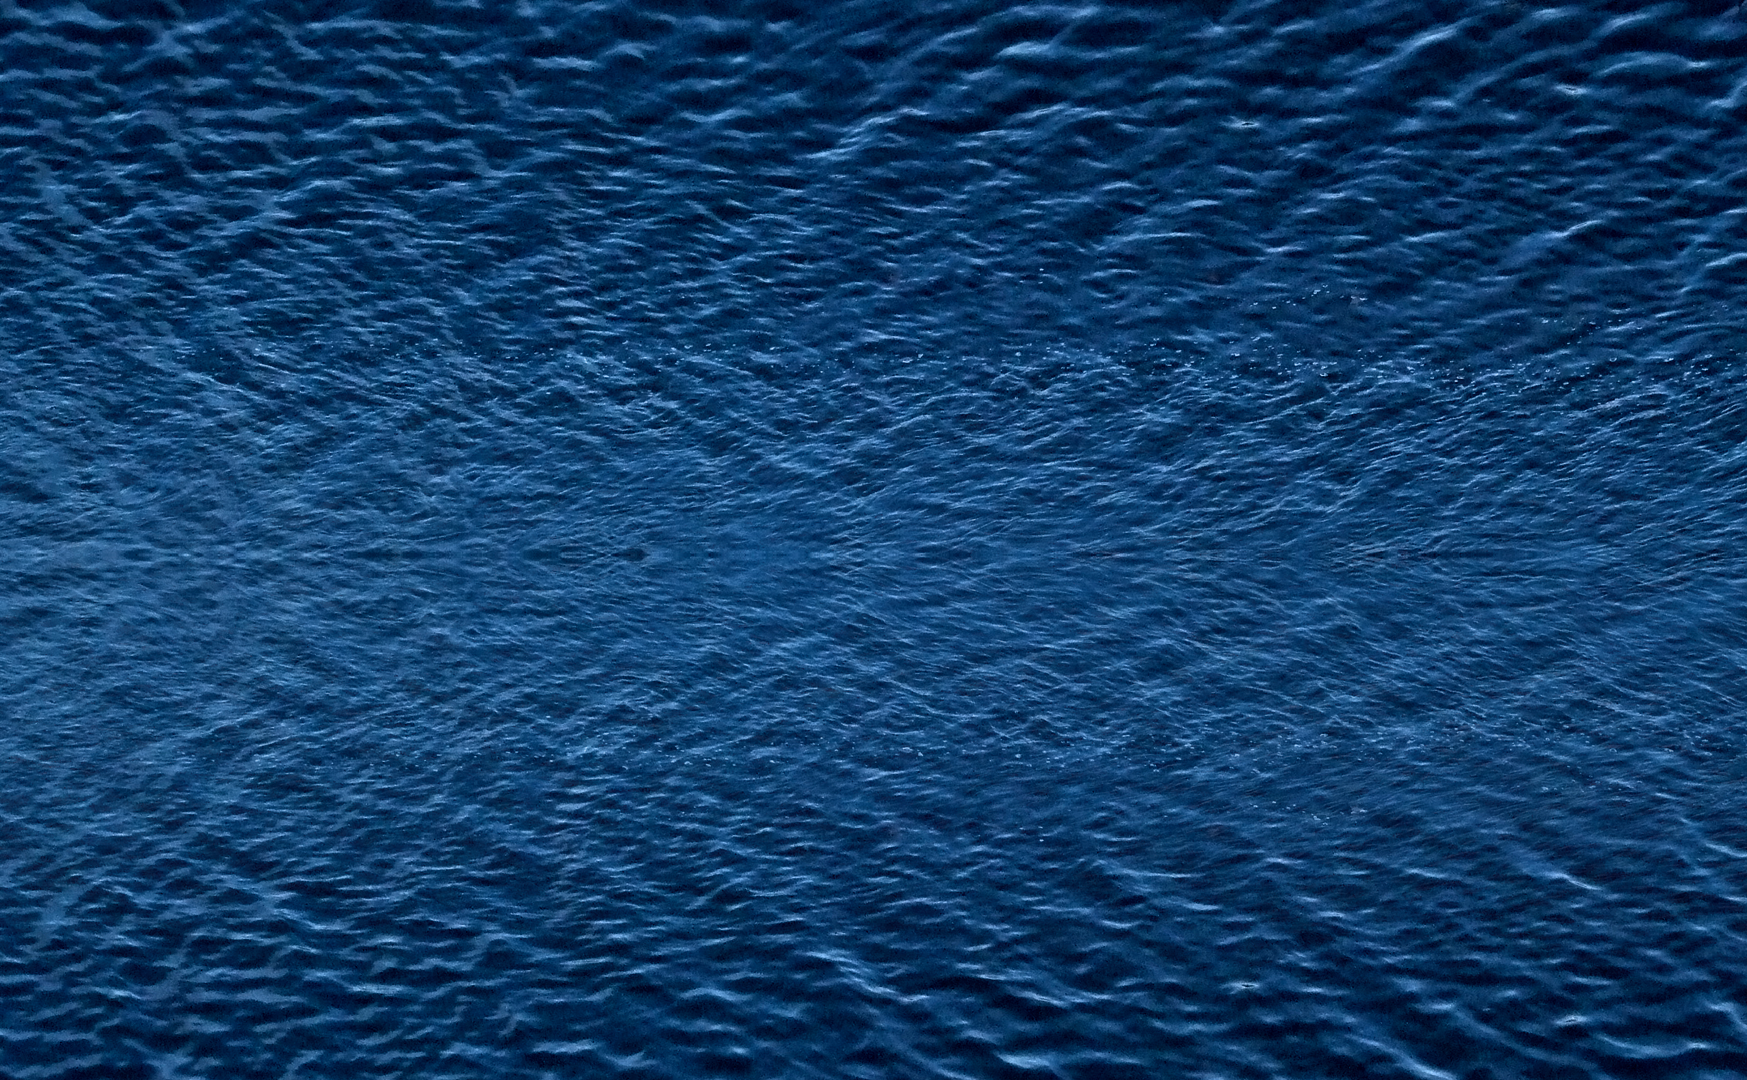
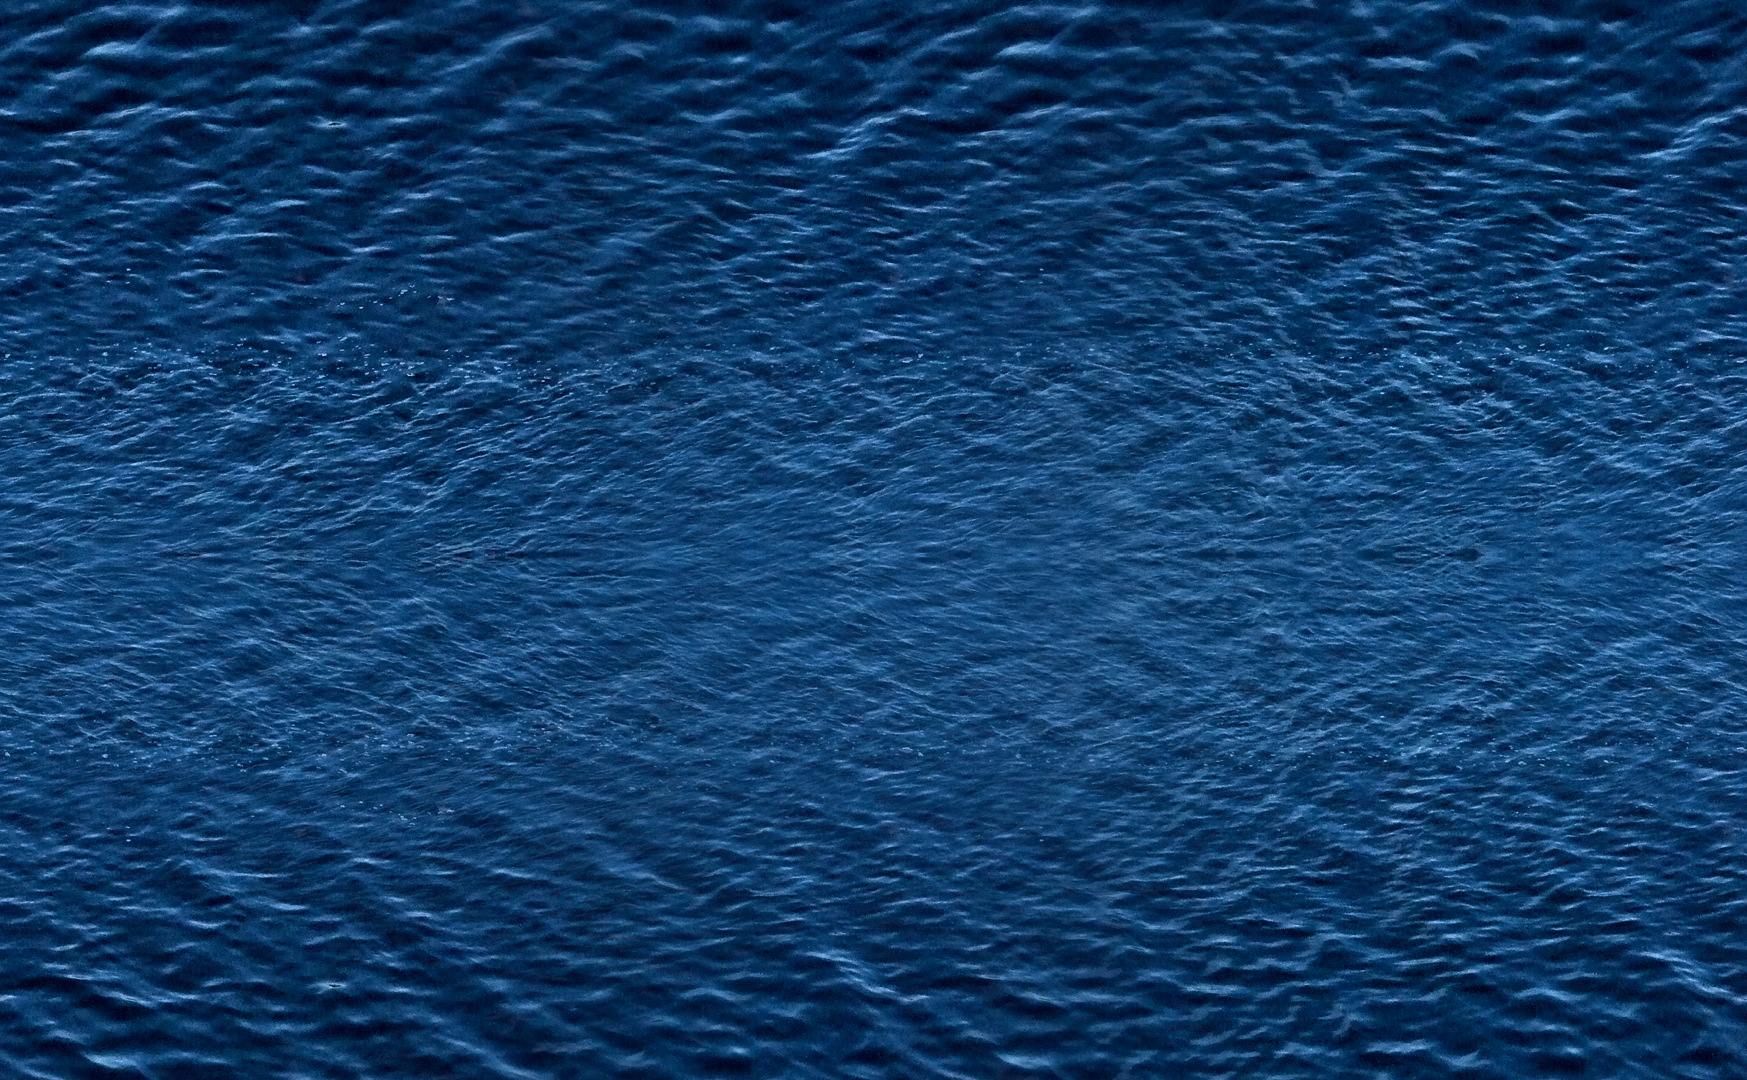
Updated Ice River level
Added multiple water layers to simulate river flow and added iceberg
effect.

diff --git a/public/scripts/game/levels/ice-river-background.js b/public/scripts/game/levels/ice-river-background.js
@@ -1,9 +1,84 @@
 function IceRiverBackgroundLayer( scene ) {
 	Layer.call( this, scene );
+
+	/*
+	this.background = new Sprite( 'Background-Ice-River' );
+	this.background.size.x = viewport.width;
+	this.background.size.y = viewport.height;
+	this.background.position.x = viewport.width / 2;
+	this.background.position.y = viewport.height / 2;
+	this.addComponent( 'Background', this.background );
+	*/
 	
-	var background = new Background( 'Background-Ice-River' );
-	this.addComponent( 'Background', background );
+	var waterOverlayCount = 3;
+	this.waterOverlays = [ ];
+	for( var i = 0; i < waterOverlayCount; i++ )
+	{
+		var waterOverlay = new Background( 'Background-Ice-River' );
+		waterOverlay.velocity.x = viewport.width * 0.11 * ( i + 1 );
+		waterOverlay.opacity = 1 / waterOverlayCount;
+		waterOverlay.scale = i + 1;
+		waterOverlay.position.y = viewport.height * 0.5;
+		waterOverlay.draw = function( context ) {
+			context.save( );
+			context.globalCompositeOperation = 'screen';
+			context.globalAlpha = this.opacity * i / waterOverlayCount;
+			context.drawImage( this.image, this.position.x, this.position.y - this.size.y * this.scale / 2, this.size.x * this.scale, this.size.y * this.scale );
+			context.drawImage( this.image, this.position.x - this.size.x * this.scale, this.position.y - this.size.y * this.scale / 2, this.size.x * this.scale, this.size.y * this.scale );
+			context.restore( );
+		};
+		this.addComponent( 'WaterOverlay' + i, waterOverlay );
+		this.waterOverlays.push( waterOverlay );
+	}
+
+	this.effect = new ParticleSystem( );
+	this.effect.position.x = -viewport.width * 0.5;
+	this.effect.particleImages = [ ];
+	for( var i = 1; i <= 14; i++ ){
+		this.effect.particleImages.push( Resources['Particle-Iceberg'+i] );
+	}
+	//this.effect.particleImages = [Resources['Particle-Iceberg1'],Resources['Particle-Iceberg2'],Resources['Particle-Iceberg3'],Resources['Particle-Iceberg4'],Resources['Particle-Iceberg5'],Resources['Particle-Iceberg6'],Resources['Particle-Iceberg7']];
+	this.effect.count = 25;
+	this.effect.minVelocity.x = viewport.width * 0.11;
+	this.effect.minVelocity.y = -viewport.height * 0.01;
+	this.effect.maxVelocity.x = viewport.width * 0.12;
+	this.effect.maxVelocity.y = viewport.height * 0.01;
+	this.effect.minParticleSize = viewport.height * 0.11;
+	this.effect.maxParticleSize = viewport.height * 0.18;
+	this.effect.minLife = 1000;
+	this.effect.maxLife = 2000;
+	this.effect.maxOpacity = 1000;
+	this.effect.rotationSpeed = 0.1;
+	this.effect.scaleSpeed = 0;
+	this.effect.size.y = viewport.height;
+	this.effect.compositeOperation = 'screen';
+	this.addComponent( 'Effect', this.effect );
+
+	for( var j = 0; j < 5000; j++ )
+	{
+		this.effect.update( 1 / 60 );
+	}
 }
 
 IceRiverBackgroundLayer.prototype = new Layer;
 IceRiverBackgroundLayer.prototype.constructor = IceRiverBackgroundLayer;
+
+IceRiverBackgroundLayer.prototype.draw = function( context ) {
+	Layer.prototype.draw.call( this, context );
+};
+
+
+IceRiverBackgroundLayer.prototype.update = function( deltaTime ) {
+	Layer.prototype.update.call( this, deltaTime );
+
+	for( var i in this.waterOverlays ) {
+		if( this.waterOverlays[i].position.x > this.waterOverlays[i].size.x * this.waterOverlays[i].scale ) {
+			this.waterOverlays[i].position.x -= this.waterOverlays[i].size.x * this.waterOverlays[i].scale;
+		}
+
+		this.waterOverlays[i].opacity = 1 + Math.sin( i * Math.PI + app.gameTime / 1000 ) / 2;
+		this.waterOverlays[i].scale = 1.5 + Math.sin( i * Math.PI + app.gameTime / 1000 ) / 10;
+	}
+
+	//this.background.scale = 1.5 + Math.sin( app.gameTime / 5000 ) / 10;
+};

diff --git a/public/scripts/game/scenes/hud-layer.js b/public/scripts/game/scenes/hud-layer.js
@@ -62,6 +62,8 @@ function HUDLayer( scene ) {
 HUDLayer.prototype = new Layer;
 HUDLayer.prototype.constructor = HUDLayer;
 
+HUDLayer.prototype.draw = function( context ) { };
+
 HUDLayer.prototype.addAnnouncement = function( announcement ) {
 	var announcement = new Text( announcement );
 	announcement.color = 'white';

diff --git a/public/scripts/game/scenes/kombat-scene.js b/public/scripts/game/scenes/kombat-scene.js
@@ -22,7 +22,7 @@ function KombatScene( ) {
 	//this.layers['Kombat'].setBall( Balls.RANDOM );
 
 	this.screamSound = new Sound( 'Scream' );
-	this.setLevel( Levels.HIGHWAY );
+	this.setLevel( Levels.ICE_RIVER );
 }
 
 KombatScene.prototype = new Scene;

diff --git a/public/scripts/engine/text.js b/public/scripts/engine/text.js
@@ -7,7 +7,7 @@ function Text( text ) {
 	this.fontStyle = "";
 	this.letterSpacing = 0;
 	this.lineHeight = 1;
-	this.text = text;
+	this.text = text || '';
 	this.textAlign = "center";
 	this.textBaseline = "middle";
 	this.textShadow = false;
